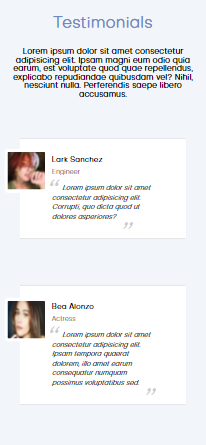
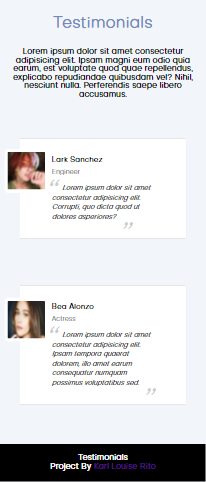
TASK2: rescreenshot

diff --git a/Task-2/style.css b/Task-2/style.css
@@ -125,6 +125,7 @@ footer {
     color: #fff;
     padding: 1.3em;
     display: flex;
+    text-align: center;
     justify-content: space-evenly;
     align-items: center;
     align-content: center;
@@ -134,5 +135,9 @@ footer {
 @media screen and (max-width: 700px) {
     .testimonial-container {
         grid-auto-flow: row;
+    }
+
+    footer {
+        display: block;
     }
 }
